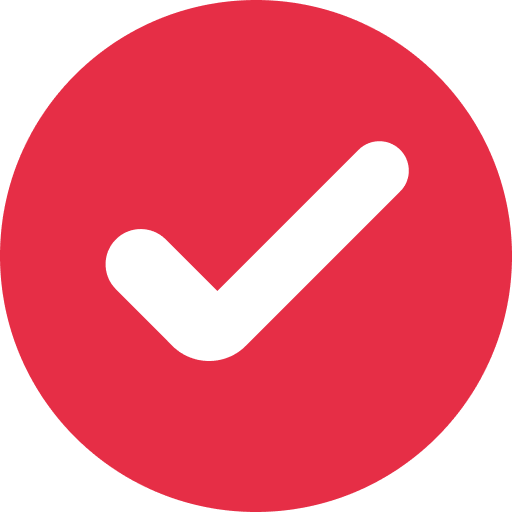
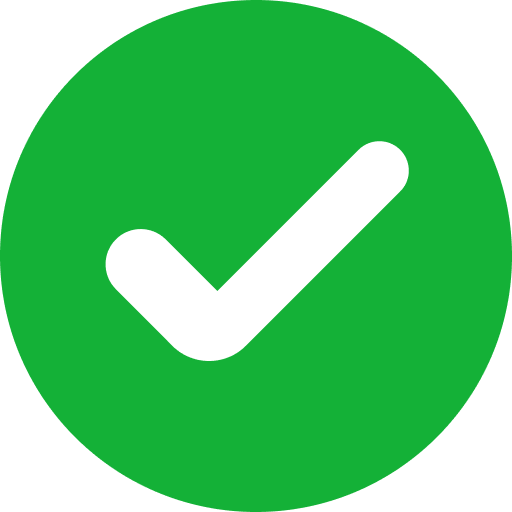
final changes

diff --git a/src/scss/views/_landing.scss b/src/scss/views/_landing.scss
@@ -16,13 +16,14 @@
 .landing-control {
   height: calc(100vh);
   display: flex;
+  flex-direction: column;
   justify-content: space-between;
   align-items: center;
   margin-left: auto;
   margin-right: auto;
 
   @include xl {
-    max-width: 80vw;
+    max-width: 90vw;
   }
 
   @include lg {
@@ -30,111 +31,117 @@
     justify-content: center;
   }
 
-  .landing-intro {
-    width: 100%;
-    margin-left: auto;
-    margin-right: auto;
-
+  .landing-header {
     .landing-logo {
-      width: 20%;
-      position: absolute;
-      top: 2%;
-      left: 8%;
       width: 150px;
       height: 90px;
       animation: 0.5s ease-out 0s 1 slide;
-
-      @include sm {
-        width: 35%;
-        margin-left: 12px;
-      }
-    }
-
-    .intro-content {
-      margin-left: auto;
-      margin-right: auto;
-      width: 80%;
-      height: 100%;
-
-      .content-line {
-        width: 100%;
-        display: flex;
-        align-items: center;
-        justify-content: space-between;
-        animation: 0.5s ease-out 0s 1 slide;
-
-        .icon-wrapper {
-          width: 50px;
-          height: 50px;
-          border-radius: 50%;
-          border-style: dotted;
-          border-width: 2px;
-          border-color: $red;
-          display: flex;
-          align-items: center;
-          justify-content: center;
-
-          .icon {
-            font-size: 20px;
-            color: $red;
-          }
-        }
-
-        p {
-          @extend .p;
-          width: 90%;
-          margin-left: 10px;
-          margin-bottom: 10px;
-
-          @include sm {
-            font-size: 20px;
-          }
-        }
-      }
-
-      @include sm {
-        width: 90%;
-        display: flex;
-        flex-direction: column;
-        margin-bottom: 0;
-      }
-
-      button {
-        @extend .main-btn;
-        padding-left: 25px;
-        padding-right: 25px;
-        margin-top: 20px;
-        animation: 0.5s ease-out 0s 1 slide;
-
-        @include sm {
-          align-self: center;
-        }
-      }
     }
   }
 
-  .landing-ad {
+  .landing-wrapper {
     width: 100%;
-    text-align: center;
+    height: calc(100% - 90px);
+    display: flex;
+    flex-direction: row;
+    justify-content: space-between;
+    align-items: center;
 
-    .ad-image {
+    @include sm {
+      flex-direction: column;
+    }
+
+    .landing-intro {
+      width: 100%;
       margin-left: auto;
       margin-right: auto;
-      animation: 0.5s ease-out 0s 1 slide;
 
-      @include sm {
-        margin-top: 20px;
-      }
+      .intro-content {
+        margin-left: auto;
+        margin-right: auto;
+        width: 80%;
+        height: calc(100%-90px);
 
-      img {
-        width: 440px;
-        height: 340px;
-        border-radius: 8px;
-        box-shadow: 0px 4px 6px $black;
+        .content-line {
+          width: 100%;
+          display: flex;
+          align-items: center;
+          justify-content: space-between;
+          animation: 0.5s ease-out 0s 1 slide;
+
+          .icon-wrapper {
+            width: 50px;
+            height: 50px;
+            border-radius: 50%;
+            border-style: solid;
+            border-width: 3px;
+            border-color: $red;
+            display: flex;
+            align-items: center;
+            justify-content: center;
+
+            .icon {
+              font-size: 20px;
+              color: $red;
+            }
+          }
+
+          p {
+            @extend .p;
+            width: 90%;
+            margin-left: 10px;
+            margin-bottom: 10px;
+
+            @include sm {
+              font-size: 20px;
+            }
+          }
+        }
 
         @include sm {
           width: 90%;
-          height: 40%;
+          display: flex;
+          flex-direction: column;
+          margin-bottom: 0;
+        }
+
+        button {
+          @extend .main-btn;
+          padding-left: 25px;
+          padding-right: 25px;
+          margin-top: 20px;
+          animation: 0.5s ease-out 0s 1 slide;
+
+          @include sm {
+            align-self: center;
+          }
+        }
+      }
+    }
+
+    .landing-ad {
+      width: 100%;
+      text-align: center;
+
+      .ad-image {
+        margin-left: auto;
+        margin-right: auto;
+        animation: 0.5s ease-out 0s 1 slide;
+
+        @include sm {
+          margin-top: 20px;
+        }
+
+        img {
+          width: 440px;
+          height: 340px;
+          border-radius: 8px;
+          box-shadow: 0px 4px 6px $black;
+
+          @include sm {
+            width: 90%;
+            height: 40%;
+          }
         }
       }
     }
@@ -218,13 +225,17 @@
       text-align: center;
       animation: fade 1s linear;
 
+      @include sm {
+        width: 90%;
+      }
+
       img {
-        width: 30%;
+        width: 20%;
       }
 
       p {
         font-size: 22px;
-        color: $red;
+        color: $green;
         margin-top: 40px;
       }
     }
@@ -257,7 +268,7 @@
         font-size: 20px;
         margin: 10px 10px;
         cursor: pointer;
-        font-family: sans-serif;
+        font-family: $font-footer;
         text-transform: uppercase;
         -moz-user-select: none;
         -khtml-user-select: none;

diff --git a/src/screens/Landing.js b/src/screens/Landing.js
@@ -4,7 +4,7 @@ import { POST } from '../utils/api.js';
 import logo from '../assets/logo.png';
 import tick from '../assets/tick.png';
 import { FontAwesomeIcon } from '@fortawesome/react-fontawesome';
-import { faAppleAlt, faTruck, faSprayCan } from '@fortawesome/free-solid-svg-icons';
+import { faTruck, faSprayCan } from '@fortawesome/free-solid-svg-icons';
 
 export default function Landing() {
   const myRef = useRef(null);
@@ -60,38 +60,42 @@ export default function Landing() {
   return (
     <>
       <div className="landing-control">
-        <div className="landing-intro">
+        <div className="landing-header">
           <img
             alt="logo"
             className="landing-logo"
             src={logo}
           />
-          <div className="intro-content">
-            <div className="content-line">
-              <p>Fresh apples, from the land of Karan Chauhan</p>
-            </div>
-
-            <div className="content-line">
-              <div className="icon-wrapper">
-                <FontAwesomeIcon className="icon" icon={faTruck} size="1x"/>
-              </div>
-              <p>Hassle free. Free Delivery at your door step</p>
-            </div>
-
-            <div className="content-line">
-              <div className="icon-wrapper">
-                <FontAwesomeIcon className="icon" icon={faSprayCan} size="1x"/>
-              </div>
-              <p>Pesticides and chemicals free</p>
-            </div>
-            <button onClick={scrollToRef}>
-              Know More
-            </button>
-          </div>
         </div>
-        <div className="landing-ad">
-          <div className="ad-image">
-            <img alt="ad" src={ad}/>
+        <div className="landing-wrapper">
+          <div className="landing-intro">
+            <div className="intro-content">
+              <div className="content-line">
+                <p>Fresh apples, from the land of Karan Chauhan</p>
+              </div>
+
+              <div className="content-line">
+                <div className="icon-wrapper">
+                  <FontAwesomeIcon className="icon" icon={faTruck} size="1x"/>
+                </div>
+                <p>Hassle free. Free Delivery at your door step</p>
+              </div>
+
+              <div className="content-line">
+                <div className="icon-wrapper">
+                  <FontAwesomeIcon className="icon" icon={faSprayCan} size="1x"/>
+                </div>
+                <p>Pesticides and chemicals free</p>
+              </div>
+              <button onClick={scrollToRef}>
+                Know More
+              </button>
+            </div>
+          </div>
+          <div className="landing-ad">
+            <div className="ad-image">
+              <img alt="ad" src={ad}/>
+            </div>
           </div>
         </div>
       </div>

diff --git a/src/scss/base/_typography.scss b/src/scss/base/_typography.scss
@@ -2,6 +2,8 @@
 
 // Import front from Google CDN
 @import url('https://fonts.googleapis.com/css?family=Chilanka&display=swap');
+@import url('https://fonts.googleapis.com/css?family=Raleway&display=swap');
 
 // Default font
 $font-stack: 'Chilanka', sans-serif;
+$font-footer: 'Raleway';

diff --git a/src/scss/base/_colours.scss b/src/scss/base/_colours.scss
@@ -6,3 +6,4 @@ $red-hover: #E8013199;
 $black: #383838;
 $background: #fefefe;
 $white: #f2f2f2;
+$green: #14B137;
